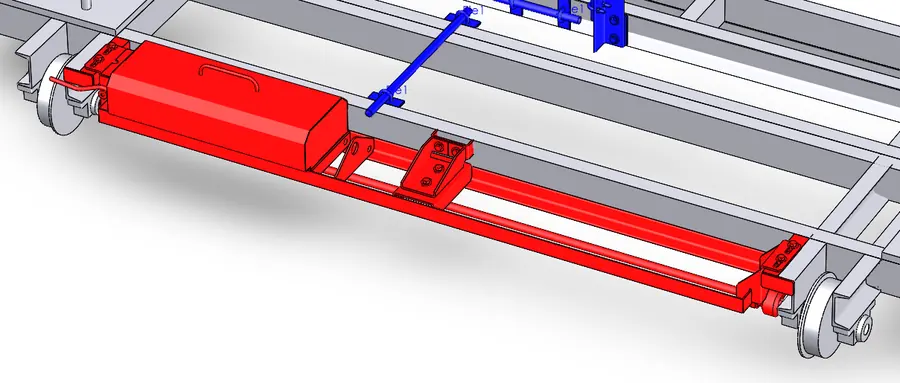
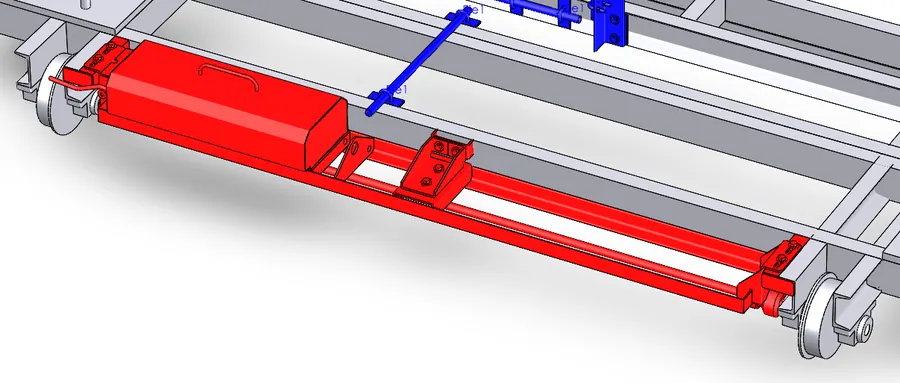
Quitar sección de clientes y corregir fondos en degradé de imágenes
Claude-Session: https://claude.ai/code/session_01VQSHMe1aNhTdHggSHgy5BH

diff --git a/index.html b/index.html
@@ -16,7 +16,6 @@
   <nav aria-label="Principal">
     <a href="#servicios">Servicios</a>
     <a href="#trabajos">Trabajos</a>
-    <a href="#clientes">Clientes</a>
     <a href="#contacto" class="btn sm">Contacto</a>
   </nav>
 </header>
@@ -130,14 +129,14 @@
       </article>
 
       <article class="work">
-        <button class="sheet" data-zoom><img src="img/plataformas.webp" width="676" height="577" loading="lazy" alt="Plataformas de acceso con piso de rejilla y barandas"></button>
+        <button class="sheet fill" data-zoom><img src="img/plataformas.webp" width="672" height="569" loading="lazy" alt="Plataformas de acceso con piso de rejilla y barandas"></button>
         <h3><i>06</i> Plataformas de acceso</h3>
         <p>Plataformas de acceso con piso de rejilla y barandas.</p>
         <p class="tags"><span>Estructuras</span><span>Seguridad</span></p>
       </article>
 
       <article class="work">
-        <button class="sheet" data-zoom><img src="img/carros.webp" width="900" height="383" loading="lazy" alt="Carro motorizado sobre riel, modelo 3D"></button>
+        <button class="sheet fill" data-zoom><img src="img/carros.webp" width="900" height="383" loading="lazy" alt="Carro motorizado sobre riel, modelo 3D"></button>
         <h3><i>07</i> Carros motorizados</h3>
         <p>Carros de traslación sobre riel con accionamiento propio.</p>
         <p class="tags"><span>Mecanismos</span><span>Diseño 3D</span></p>
@@ -150,19 +149,6 @@
         <p class="tags"><span>Siderurgia</span><span>Diseño 3D</span></p>
       </article>
     </div>
-  </div>
-</section>
-
-<section id="clientes" class="sec">
-  <div class="wrap">
-    <p class="eyebrow">Confianza</p>
-    <h2>Empresas con las que trabajamos</h2>
-    <ul class="clients">
-      <li>Industrias Juan F. Secco</li>
-      <li>Terragene</li>
-      <li>Gadesma</li>
-      <li>Infya</li>
-    </ul>
   </div>
 </section>
 

diff --git a/styles.css b/styles.css
@@ -20,8 +20,8 @@ ul{list-style:none}
 .nav nav{display:flex;align-items:center;gap:22px}
 .nav nav a{text-decoration:none;color:var(--mut);font-size:.95rem}
 .nav nav a:hover{color:var(--tx)}
-.nav nav a:not(.btn):nth-child(-n+3){display:none}
-@media(min-width:720px){.nav nav a:not(.btn):nth-child(-n+3){display:inline}}
+.nav nav a:not(.btn):nth-child(-n+2){display:none}
+@media(min-width:720px){.nav nav a:not(.btn):nth-child(-n+2){display:inline}}
 
 /* Botones */
 .btn{display:inline-block;background:var(--ac);color:#1a1207;font-weight:700;text-decoration:none;
@@ -110,11 +110,6 @@ h3{font-size:1.1rem;line-height:1.3;margin-bottom:6px}
   .work:nth-child(3) .pair.three .sheet:not(.wide){aspect-ratio:4/3}
 }
 
-/* Clientes */
-.clients{display:grid;gap:12px;margin-top:26px;grid-template-columns:repeat(auto-fit,minmax(200px,1fr))}
-.clients li{border:1px solid var(--line);background:var(--panel);border-radius:var(--r);padding:20px;text-align:center;
-  font-weight:700;letter-spacing:.02em;color:var(--mut)}
-
 /* Contacto */
 .contact{display:grid;gap:40px}
 .info{display:grid;gap:12px}
@@ -143,3 +138,4 @@ dialog button{width:36px;height:36px;border-radius:50%;border:0;background:var(-
 
 a:focus-visible,button:focus-visible{outline:2px solid var(--ac);outline-offset:2px}
 @media(prefers-reduced-motion:reduce){*{scroll-behavior:auto!important;transition:none!important}}
+.sheet.fill img{object-fit:cover}
